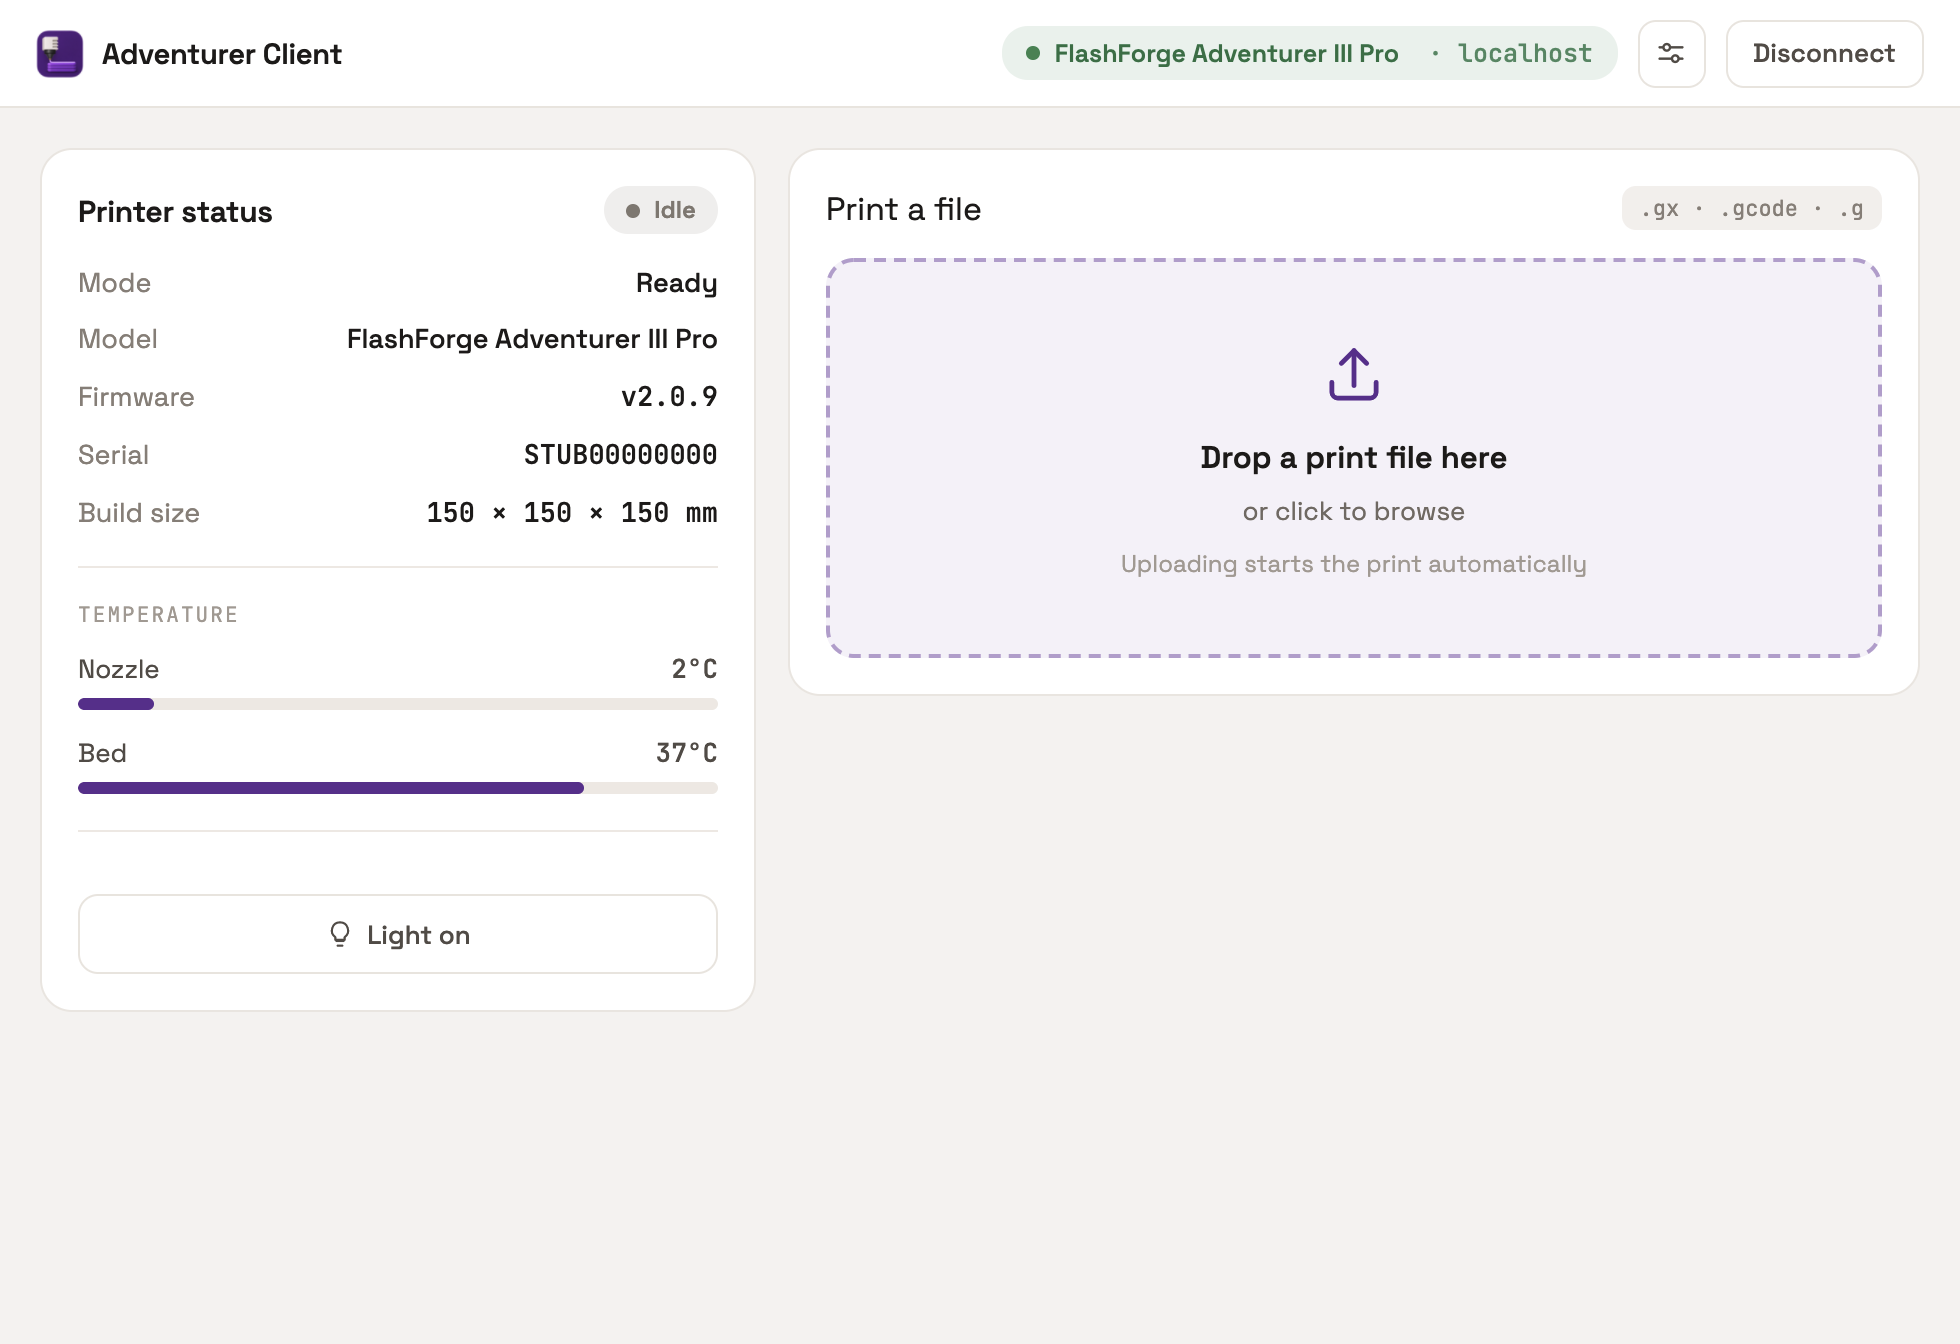
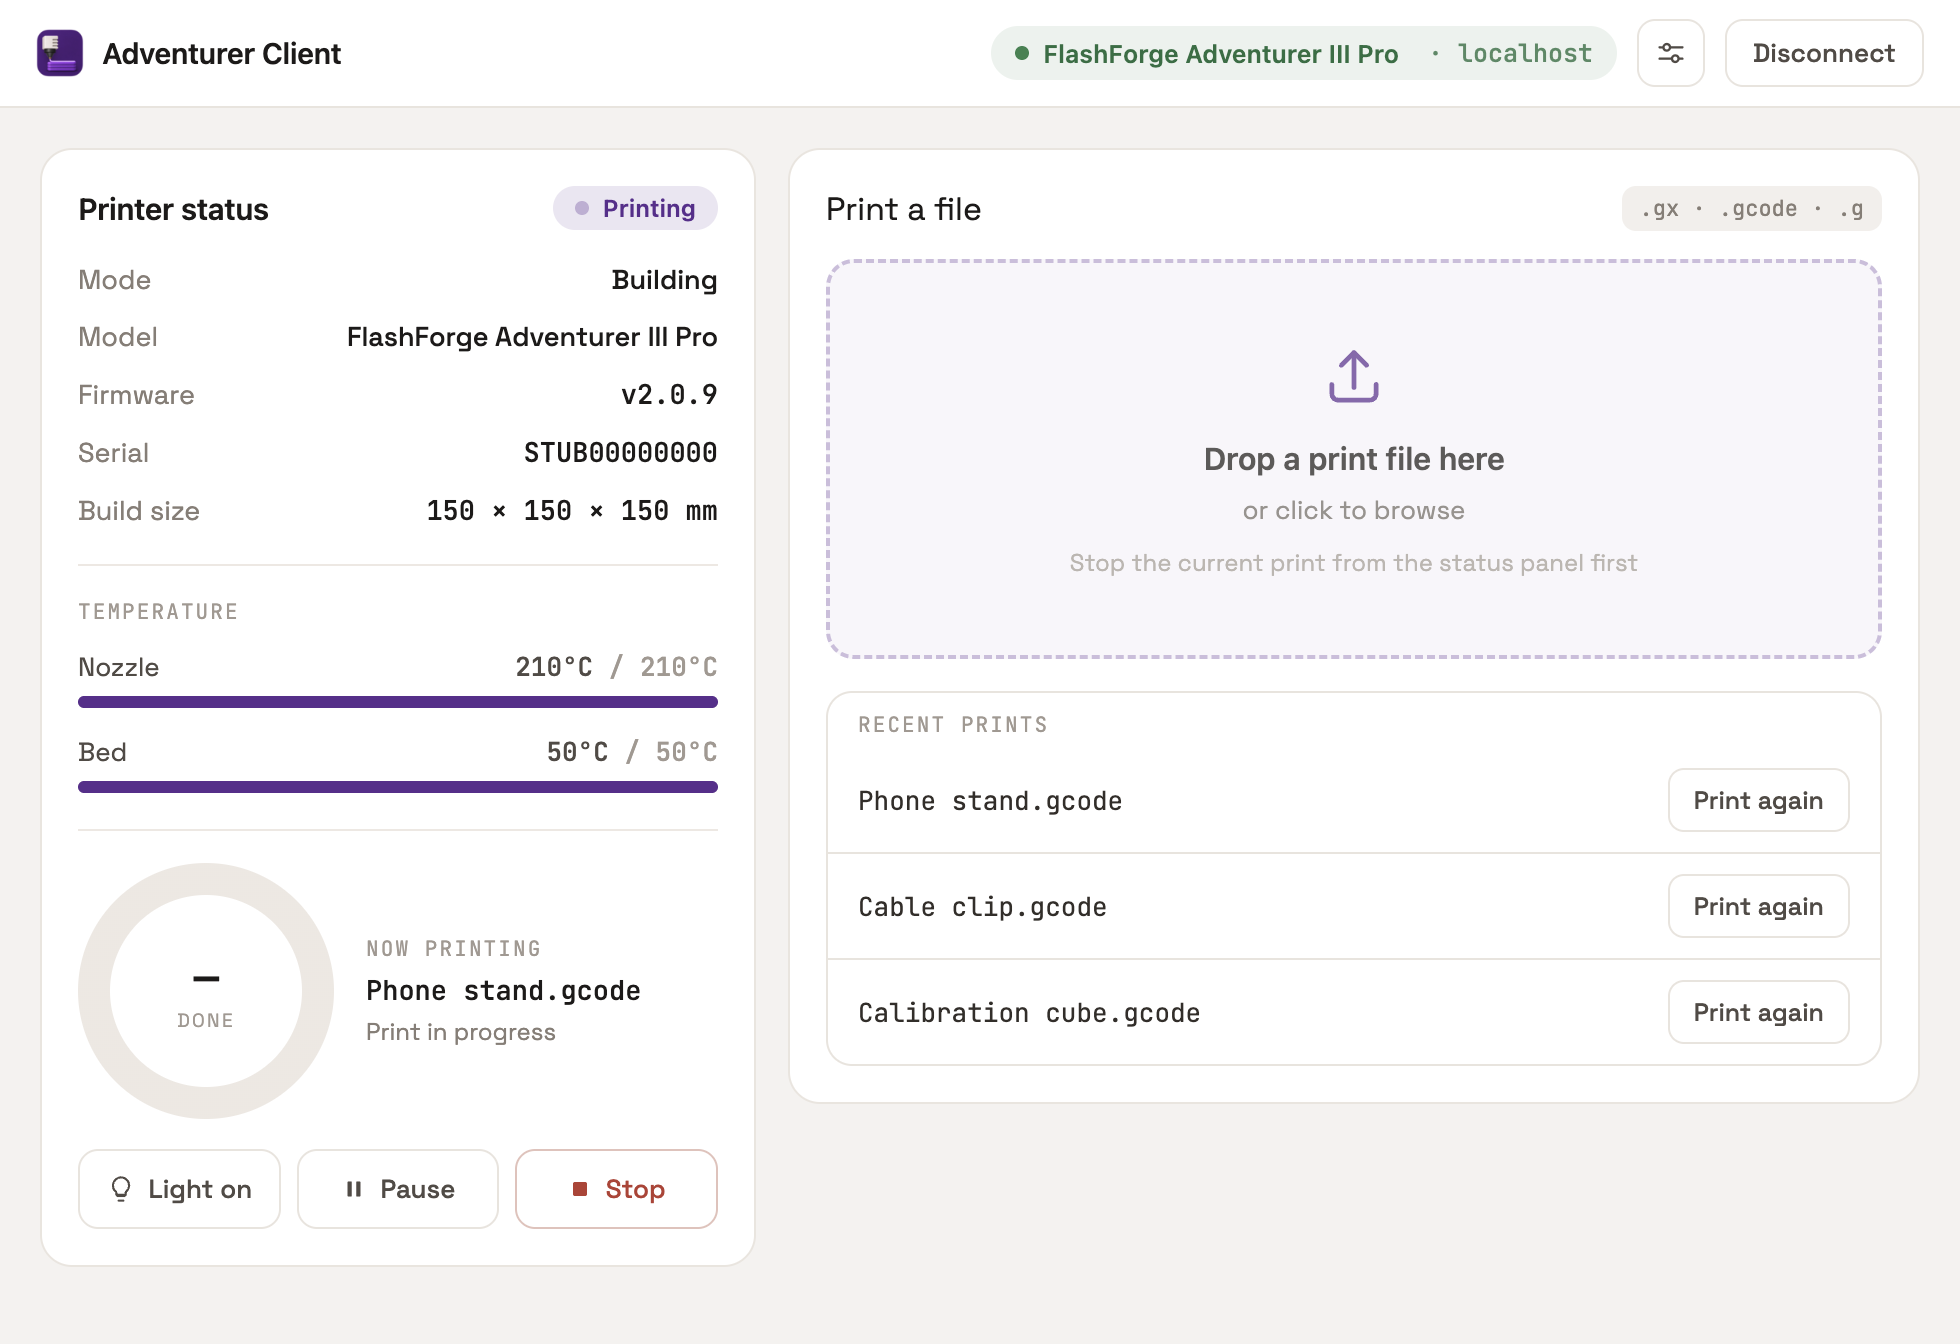
Update README screenshot
Show the app on Electron 45 in the middle of a print: printing status,
heated nozzle and bed, pause/stop controls and the recent prints list.
The old screenshot showed an idle printer with stray temperatures.

diff --git a/README.md b/README.md
@@ -9,7 +9,7 @@
 </p>
 
 <p align="center">
-  <img src="docs/images/screenshot.png" width="720" alt="Adventurer Client connected to a printer">
+  <img src="docs/images/screenshot.png" width="720" alt="Adventurer Client showing a printer mid-print, with temperatures, print controls and recent prints">
 </p>
 
 ## About
